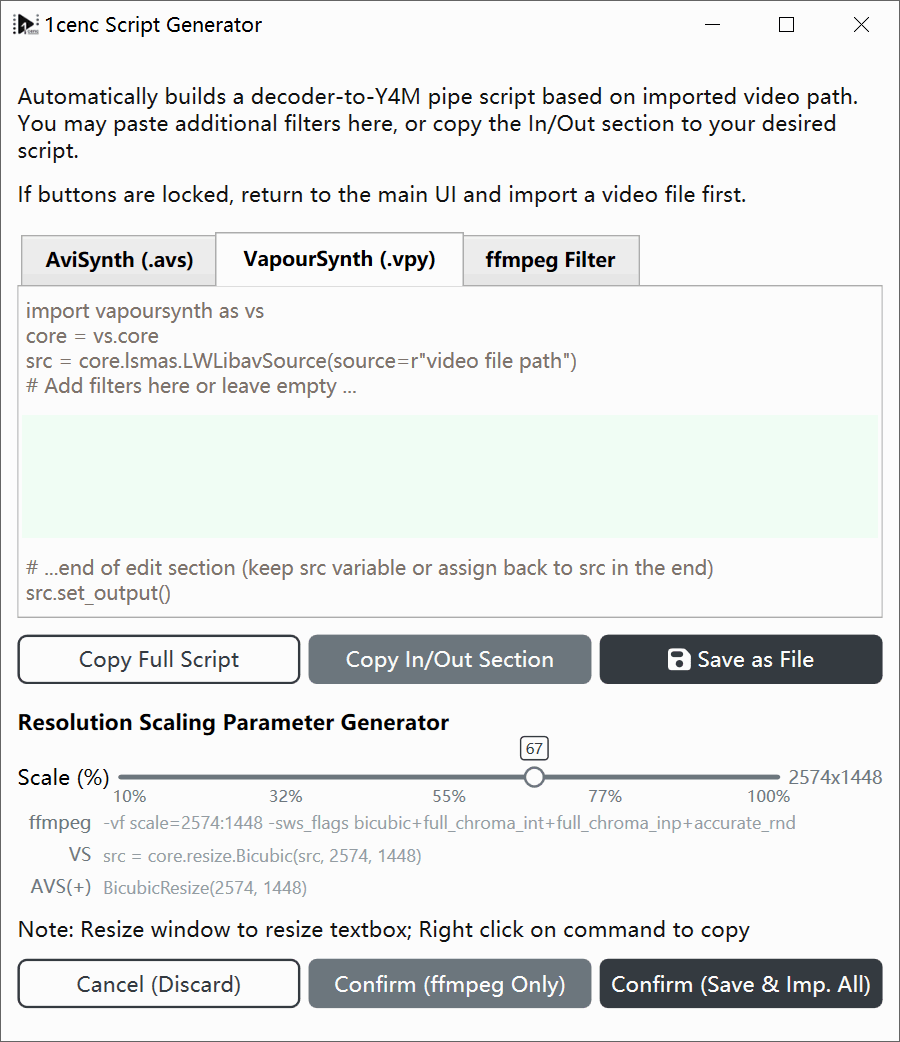
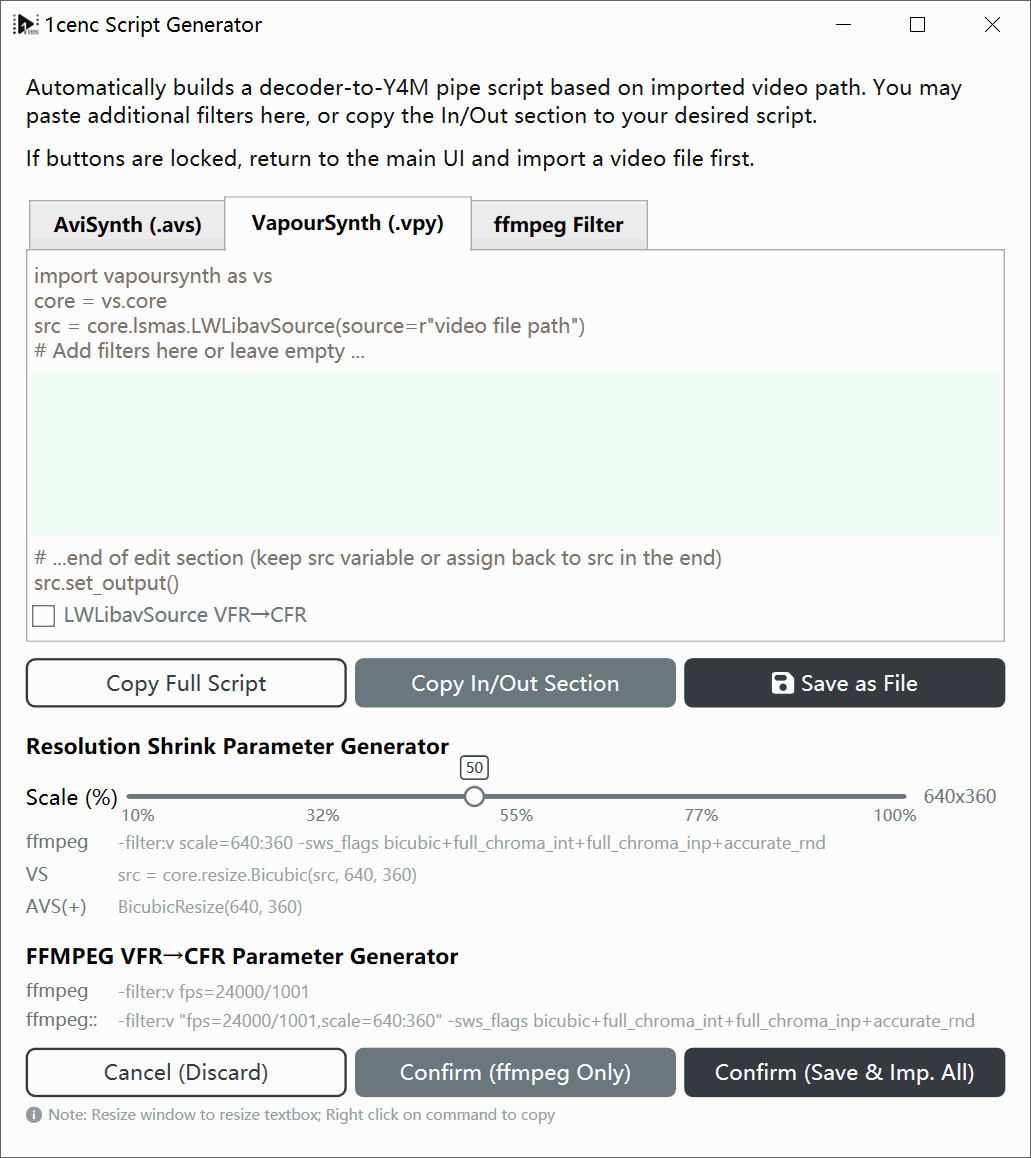
Update README to include new functionalities

diff --git a/README-EN.md b/README-EN.md
@@ -13,7 +13,7 @@ The current code works but lacks testing, which is releasing as beta.
 This software supports multiple languages, but English text screenshots are used here to reduce the number of images. Some UI elements or text in the images may be outdated, but the overall layout and functional area divisions remain applicable. Please refer to the actual version you are using.
 
 1. Main Interface: Tools area, Source Import area, Analysis area, Checklist, Encoding Settings area, and Startup area
-2. Script Editor: AVS/VPY editing area, copy and save functions
+2. Script Editor: AVS/VPY editing area, video scaling and VFR to CFR command generation
 3. Encoding Settings: CRF/ABR parameters, custom presets, and 3rd party encoder arguments
 4. Parallelism Settings: NUMA nodes, CPU Sets, and advanced thread limit
 5. Clip Sampler: Time/Frame Number selection, conversion, and basic preview

diff --git a/README.md b/README.md
@@ -13,7 +13,7 @@
 本软件支持多语言，但为减少图片数量而在此统一用了英语文本截图。图片中可能会有一些过时的 UI 元素或文本，但整体布局和功能区域划分仍然适用。请以实际使用版本为准。
 
 1. 主界面：工具区、源导入区、分析区、检查卡、编码设置区和启动区
-2. 脚本编辑器：AVS / VPY 编辑区、复制和保存功能
+2. 脚本编辑器：AVS / VPY 编辑区、视频缩放与 VFR 转 CFR 命令生成功能
 3. 编码设置：CRF / ABR 参数、自定义预设等配置
 4. 并行设置：NUMA 节点、CPU Sets 和高级线程数限制
 5. 采样片段：时间/帧号选择、转换和基本预览
